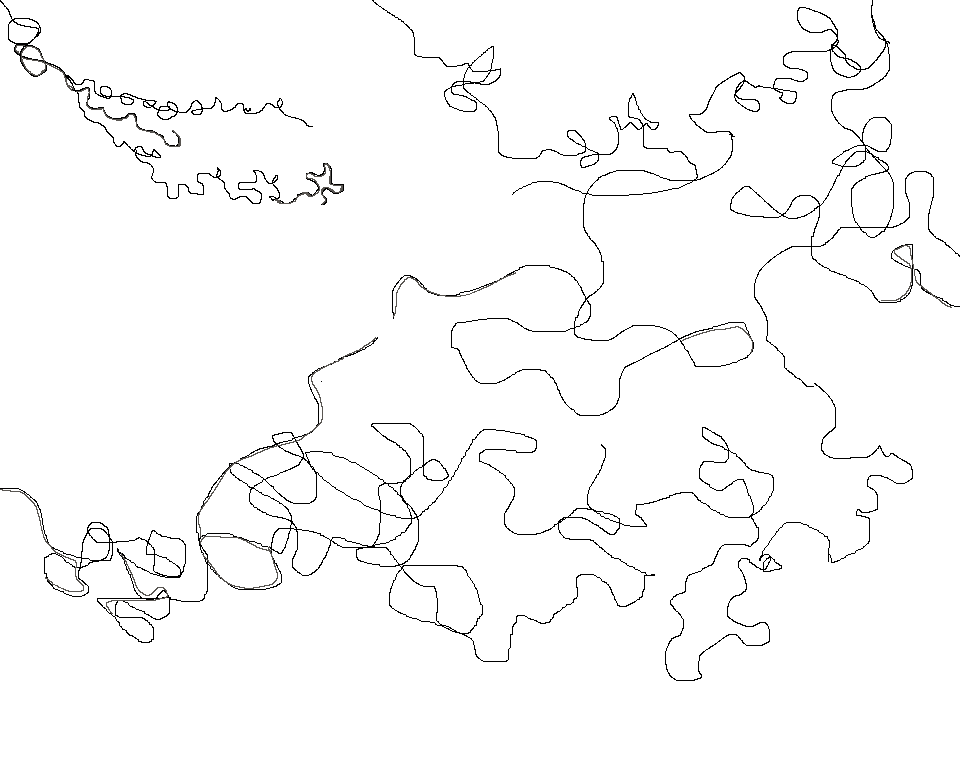
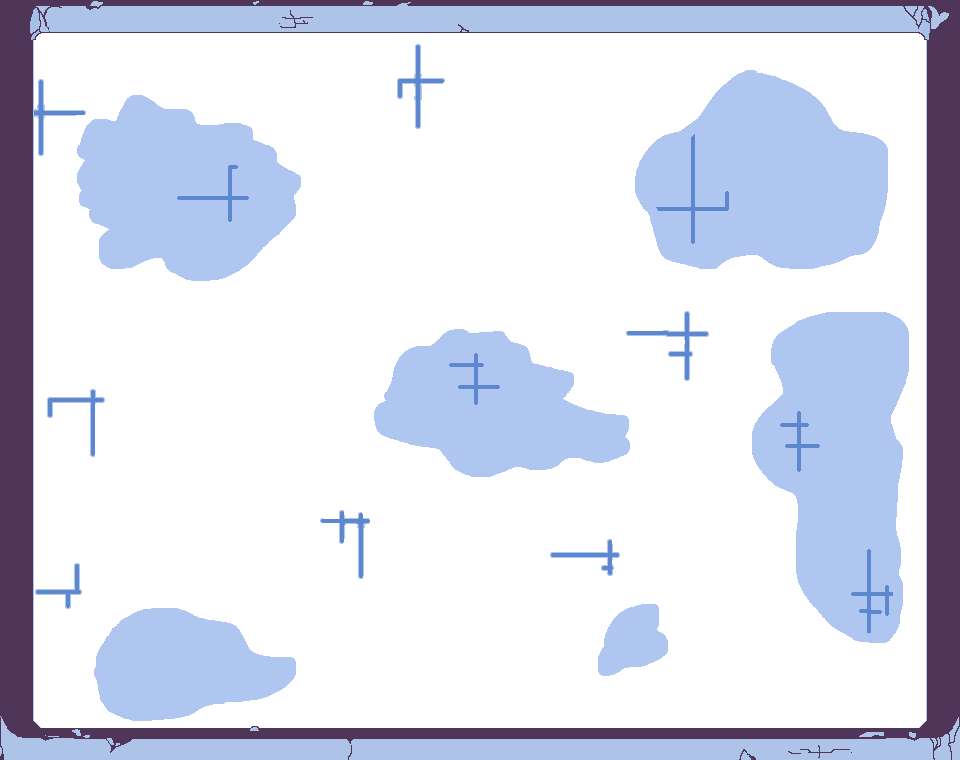
feat: added wrist screen

diff --git a/src/style.css b/src/style.css
@@ -15,28 +15,45 @@ body {
   background: #05060a;
 }
 
-/* Side by side, both stretched to full viewport height: #dataScreen takes whatever width
-   #app doesn't need, so together they fill the screen with zero black space and the game
-   canvas itself never stretches/crops (see fitCanvasToViewport in main.ts). */
+/* #gameRoot is a fixed 1360x760 box (400 side screen + 960 room) that's scaled as a single
+   unit to fit the viewport (see fitRootToViewport in main.ts) — the bezel image and the game
+   canvas are both authored at fixed pixel sizes, so they must scale together or they'd drift
+   out of alignment on any viewport that isn't exactly 1360x760. */
 body {
   display: flex;
+  align-items: center;
+  justify-content: center;
+}
+
+#gameRoot {
+  width: 1360px;
+  height: 760px;
+  display: flex;
   flex-direction: row;
-  align-items: stretch;
+  flex-shrink: 0;
+  transform-origin: center center;
 }
 
 #dataScreen {
-  flex: 1 1 auto;
-  min-width: 0;
-  height: 100%;
-  background: #0c0e14;
-  border-right: 1px solid #2a2f3a;
-  color: #8a8f98;
-  overflow: hidden;
+  position: relative;
+  flex: 0 0 400px;
+  width: 400px;
+  height: 760px;
+  background: url('/assets/screen.png') no-repeat center / contain;
 }
 
+/* Text content is boxed to 292x360 to stay within the screen cutout drawn into screen.png
+   (measured against the current art: cutout spans x 47-352, y 162-533, so this is centered
+   in that region with a couple px of clearance from the rounded corners). */
 #dataScreenContent {
+  position: absolute;
+  left: 54px;
+  top: 168px;
+  width: 292px;
+  height: 360px;
   margin: 0;
-  padding: 20px;
+  padding: 0;
+  overflow: hidden;
   font-family: monospace;
   font-size: 15px;
   line-height: 1.6;
@@ -45,11 +62,9 @@ body {
 }
 
 #app {
-  flex: 0 0 auto;
-  display: flex;
-  align-items: center;
-  justify-content: center;
-  height: 100%;
+  flex: 0 0 960px;
+  width: 960px;
+  height: 760px;
 }
 
 #app canvas {

diff --git a/src/main.ts b/src/main.ts
@@ -1,6 +1,6 @@
 import { Application, Assets, Container, Graphics, Sprite, TilingSprite } from 'pixi.js';
 import { attemptPlaceAntivirusTower, updateAntivirusTower } from './antivirus';
-import { ROOM_BACKGROUND_COLOR, ROOM_HEIGHT, ROOM_WIDTH } from './config';
+import { ROOM_BACKGROUND_COLOR, ROOM_HEIGHT, ROOM_WIDTH, SIDE_SCREEN_WIDTH } from './config';
 import { clampToRoom, resolveServerCollisions } from './collision';
 import { bootSequence, checkDialogTriggers, dismissActiveDialog, pumpDialogQueue } from './dialog';
 import { consumeAntivirusPress, consumeInteractPress, getMovementAxis, initInput } from './input';
@@ -42,8 +42,7 @@ async function bootstrap(): Promise<void> {
   appRoot.innerHTML = '';
   appRoot.appendChild(app.canvas);
 
-  // Left-side data screen — plain DOM/text for now; a real HUD-screen asset (bezel, etc.)
-  // will replace this styling later without touching the update logic below.
+  // Left-side data screen — text rendered over the screen.png bezel asset (400x760, see config).
   const dataScreenContentEl = document.querySelector<HTMLPreElement>('#dataScreenContent');
   if (!dataScreenContentEl) throw new Error('#dataScreenContent element not found');
   const dataScreenContent = dataScreenContentEl;
@@ -66,16 +65,21 @@ async function bootstrap(): Promise<void> {
     ].join('\n');
   }
 
-  // Internal render resolution stays fixed at ROOM_WIDTH x ROOM_HEIGHT (collision/layout
-  // math depends on it) — only the CSS size of the canvas scales to fill the viewport,
-  // preserving aspect ratio (uniform scale, no stretch/distortion) and re-fitting on resize.
-  function fitCanvasToViewport(): void {
-    const scale = Math.min(window.innerWidth / ROOM_WIDTH, window.innerHeight / ROOM_HEIGHT);
-    app.canvas.style.width = `${ROOM_WIDTH * scale}px`;
-    app.canvas.style.height = `${ROOM_HEIGHT * scale}px`;
+  // Internal render resolution stays fixed at ROOM_WIDTH x ROOM_HEIGHT (collision/layout math
+  // depends on it). The bezel image and canvas are both fixed-pixel-size DOM elements, so
+  // instead of resizing the canvas alone, #gameRoot (bezel + canvas, 1360x760) is scaled as
+  // one unit via CSS transform to fit the viewport, preserving aspect ratio and their alignment.
+  const gameRootEl = document.querySelector<HTMLDivElement>('#gameRoot');
+  if (!gameRootEl) throw new Error('#gameRoot element not found');
+  const gameRoot = gameRootEl;
+  const ROOT_WIDTH = ROOM_WIDTH + SIDE_SCREEN_WIDTH;
+  const ROOT_HEIGHT = ROOM_HEIGHT;
+  function fitRootToViewport(): void {
+    const scale = Math.min(window.innerWidth / ROOT_WIDTH, window.innerHeight / ROOT_HEIGHT);
+    gameRoot.style.transform = `scale(${scale})`;
   }
-  fitCanvasToViewport();
-  window.addEventListener('resize', fitCanvasToViewport);
+  fitRootToViewport();
+  window.addEventListener('resize', fitRootToViewport);
 
   const floorTexture = await Assets.load('/assets/floor.png');
   floorTexture.source.scaleMode = 'nearest'; // keep 64x32 tile crisp when repeated, not blurred

diff --git a/index.html b/index.html
@@ -7,10 +7,12 @@
     <title>Bad Connection</title>
   </head>
   <body>
-    <div id="dataScreen">
-      <pre id="dataScreenContent"></pre>
+    <div id="gameRoot">
+      <div id="dataScreen">
+        <pre id="dataScreenContent"></pre>
+      </div>
+      <div id="app"></div>
     </div>
-    <div id="app"></div>
     <script type="module" src="/src/main.ts"></script>
   </body>
 </html>

diff --git a/src/config.ts b/src/config.ts
@@ -41,3 +41,7 @@ export const PLACEHOLDER_COLORS = {
 } as const;
 
 export const ROOM_BACKGROUND_COLOR = 0x11141b;
+
+// SECTION — Side data screen (bezel asset public/assets/screen.png is authored at this exact size)
+export const SIDE_SCREEN_WIDTH = 400; // px
+export const SIDE_SCREEN_HEIGHT = 760; // px, matches ROOM_HEIGHT so the two panels align edge-to-edge